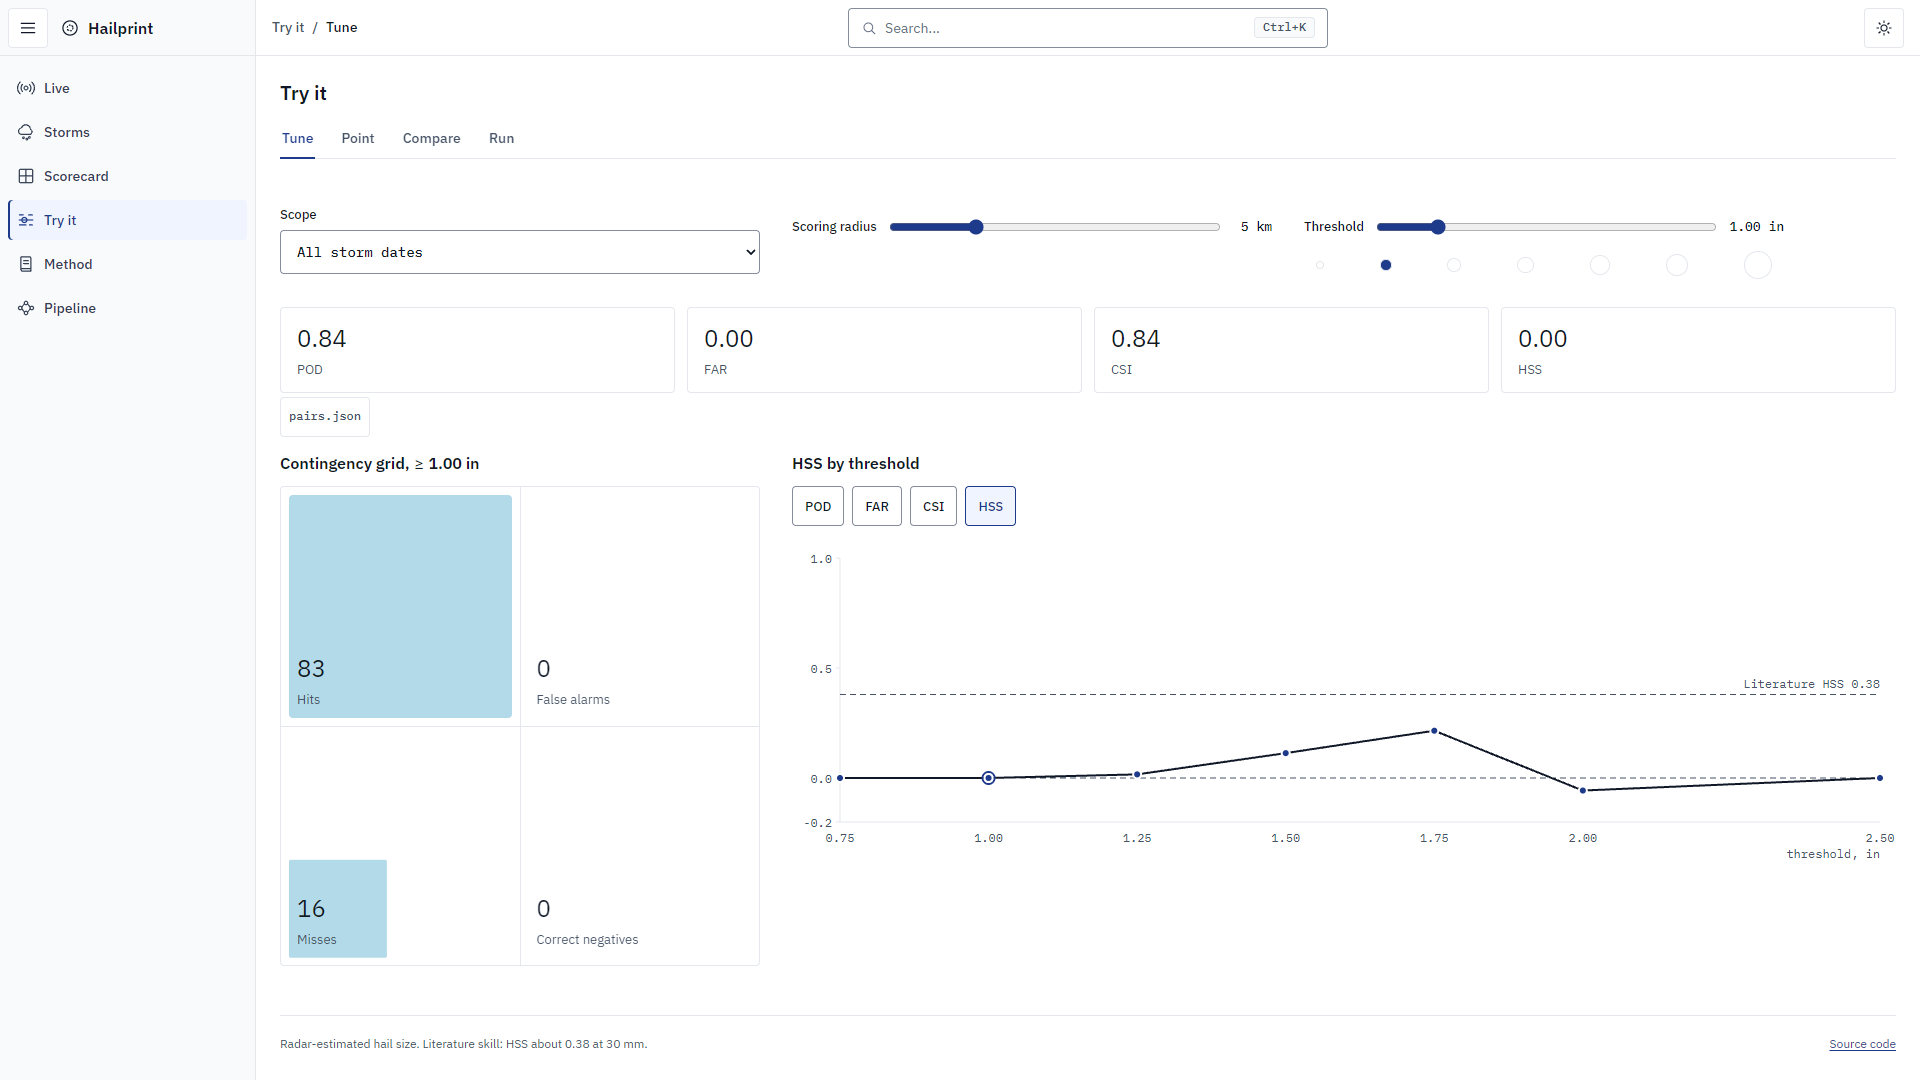
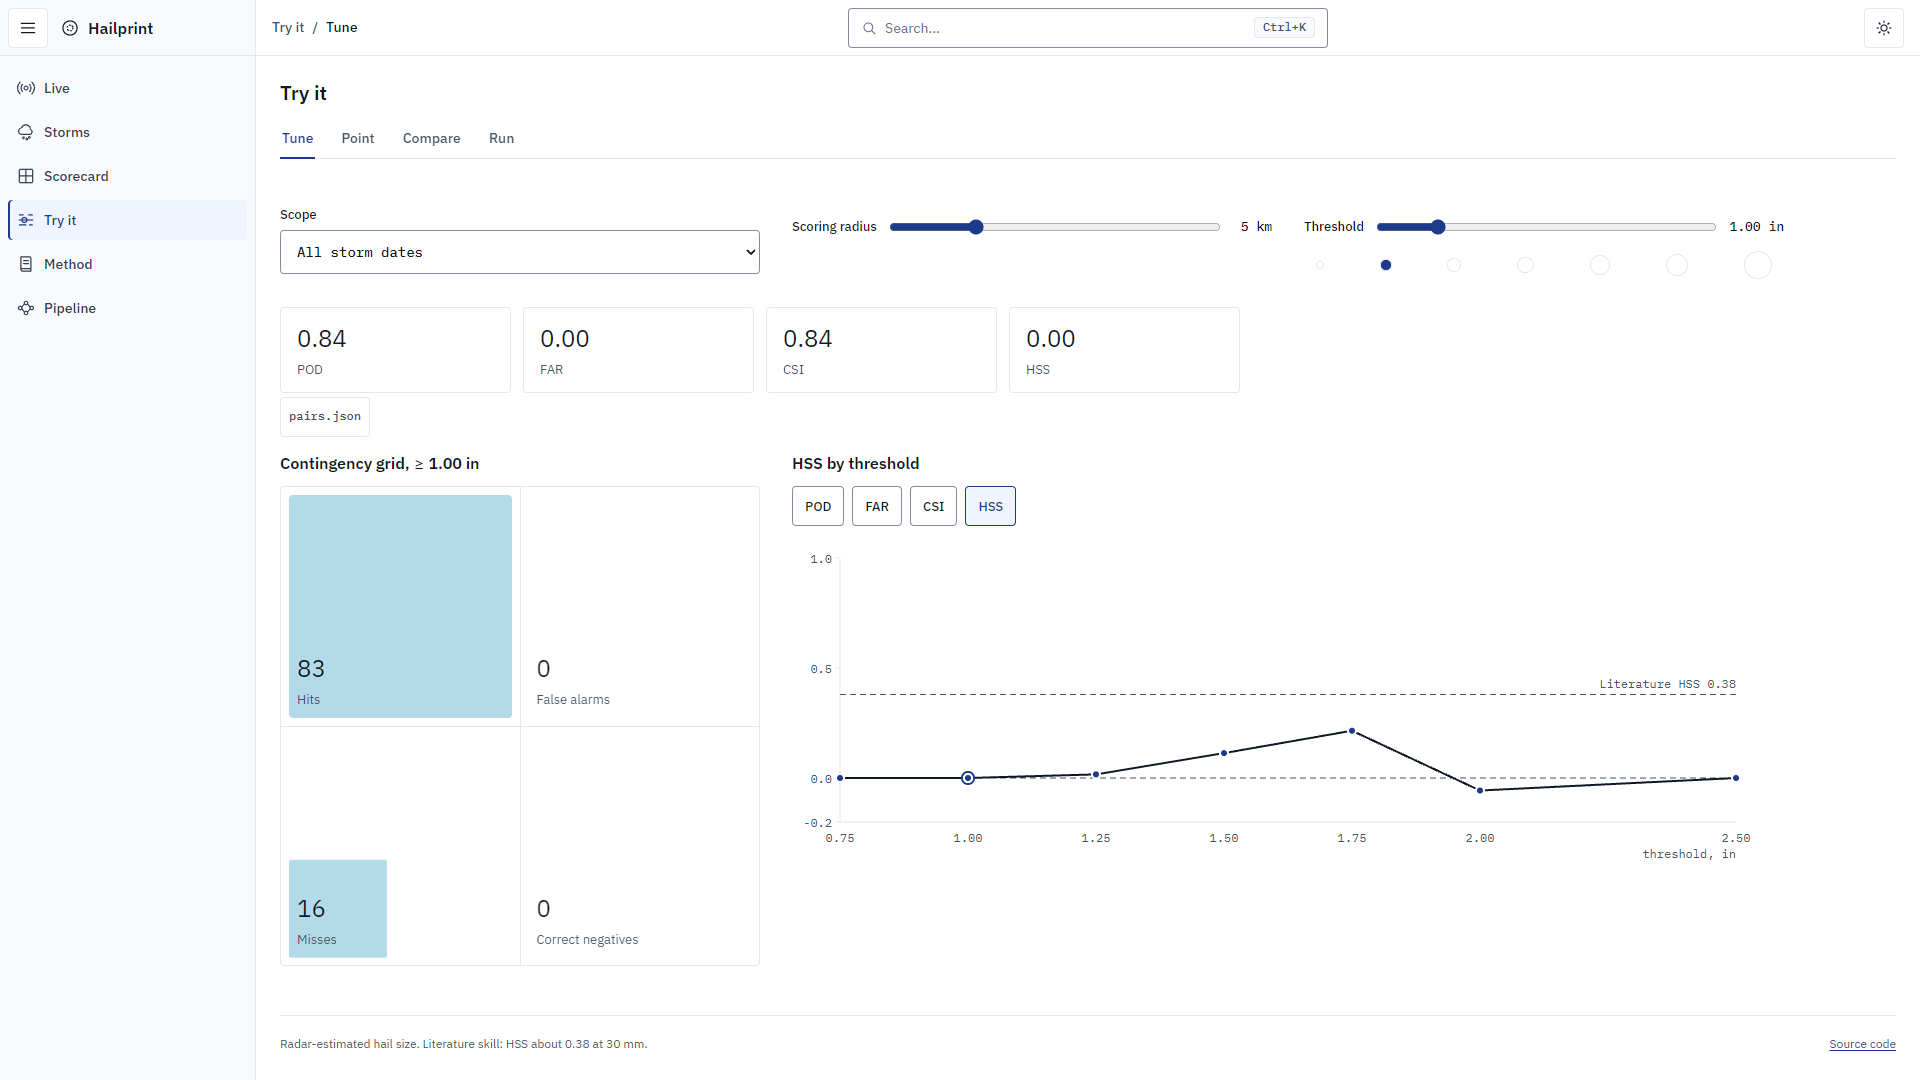
fix(site): curve group role, 960 px caps, table gap evidence (#55)
* fix(site): curve group role, 960 px caps, table gap test

- The threshold-curve svg uses role="group", so screen readers read the labelled marker hit circles.
- The curve and the tune metric row have a 960 px max-width. At 1920 px the curve no longer stretches to 1616 px.
- A test checks that the scorecard table keeps width: auto.

* docs(design): curve cap, curve role, and table gap evidence

* test(site): match the curve aria-label text, not its length

String(undefined) has length 9, so the old check passed on a missing label.

* docs(design): point the capture receipt at the test fix

---------

diff --git a/site/src/scorecard/scorecard.test.tsx b/site/src/scorecard/scorecard.test.tsx
@@ -458,5 +458,37 @@ describe("Scorecard empty cohort and ThresholdCurve roving Tab stop (US-12.1, US
     expect(Number(twoColumn![1])).toBeGreaterThanOrEqual(1280);
     expect(tryCss).toMatch(/@media\s*\(width\s*>=\s*1024px\)\s*\{\s*\.pane-grid\.tune-grid\s*\{\s*grid-template-columns:\s*minmax\(0,\s*1fr\);/);
   });
+
+  it("exposes the threshold curve as a group with a label, and each marker hit circle with its own label (F1)", async () => {
+    const host = makeFakeElement("div");
+    await act(() =>
+      render(h(ThresholdCurve, { rows: makeRows(), metric: "hss", onMetric: () => {} }), host as unknown as HTMLElement),
+    );
+
+    const svg = findDomNodes(host, (n) => n.tagName === "SVG")[0]!;
+    expect(svg["role"]).toBe("group");
+    expect(svg["aria-label"]).toMatch(/ by threshold$/);
+    const hitCircles = findDomNodes(host, (n) => n.tagName === "CIRCLE" && classOf(n) === "marker-hit");
+    expect(hitCircles).toHaveLength(7);
+    for (const hit of hitCircles) {
+      expect(hit["aria-label"]).toMatch(/ in, HSS -?\d\.\d{2}$/);
+    }
+  });
+
+  it("caps the curve and the tune metric row at 960 px wide (F2)", () => {
+    const read = (rel: string) => readFileSync(fileURLToPath(new URL(rel, import.meta.url)), "utf8");
+    const ruleBody = (css: string, selector: string) => {
+      const escaped = selector.replace(/[.*+?^${}()|[\]\\]/g, "\\$&");
+      return new RegExp(`(?:^|\\n)${escaped}\\s*\\{([^}]*)\\}`).exec(css)?.[1] ?? "";
+    };
+    expect(ruleBody(read("../styles/scorecard.css"), ".curve")).toMatch(/max-width:\s*960px/);
+    expect(ruleBody(read("../styles/try.css"), ".metric-row")).toMatch(/max-width:\s*960px/);
+  });
+
+  it("keeps the scorecard table at width auto so labels sit near their numbers (F3)", () => {
+    const scorecardCss = readFileSync(fileURLToPath(new URL("../styles/scorecard.css", import.meta.url)), "utf8");
+    const rule = /(?:^|\n)\.view-body > \.table-scroll > \.table\s*\{([^}]*)\}/.exec(scorecardCss)?.[1] ?? "";
+    expect(rule).toMatch(/width:\s*auto/);
+  });
 });
 

diff --git a/site/src/scorecard/threshold-curve.tsx b/site/src/scorecard/threshold-curve.tsx
@@ -114,7 +114,7 @@ export function ThresholdCurve({
         ref={svgRef}
         class="curve"
         viewBox={`0 0 ${width} ${HEIGHT}`}
-        role="img"
+        role="group"
         aria-label={`${METRIC_LABELS[metric]} by threshold`}
         onKeyDown={onKeyDown}
       >

diff --git a/site/src/styles/try.css b/site/src/styles/try.css
@@ -50,6 +50,7 @@
 
 .metric-row {
   display: grid;
+  max-width: 960px;
   grid-template-columns: repeat(4, minmax(0, 1fr));
   gap: 12px;
   margin-bottom: 8px;

diff --git a/site/src/styles/scorecard.css b/site/src/styles/scorecard.css
@@ -83,6 +83,7 @@
 .curve {
   display: block;
   width: 100%;
+  max-width: 960px;
   height: auto;
   overflow: visible;
 }

diff --git a/docs/design/ui-evidence.md b/docs/design/ui-evidence.md
@@ -1,4 +1,4 @@
-head: 510ef114115467de4013d4956e107ee9970b291d
+head: 58456a50b0f19eb2f18dccc6b4c76053c5e12dbe
 
 # UI evidence
 
@@ -57,6 +57,9 @@ Line 1 names the commit that the captures show.
 | Stale age copy | ages of 60 min and more in hours, 24 h and more in days | the badge reads "stale 21 d ago" |
 | Focus ring | 2 px solid primary outline, 2 px offset | `a` on `/scorecard/table`: 2px solid, offset 2px, rgb(30, 58, 138) |
 | Tune curve targets | each marker centre on `/try/tune` hits its own marker (`elementFromPoint`) at 1024, 1100, 1279, 1280, 1440, and 1920 px | 7 of 7 markers at all 6 widths; the panes stack below 1280 px (`batch-b/try-tune-1024.png`) |
+| Curve width cap | `.curve` and `.metric-row` stop at 960 px | at 1920 px: `/scorecard/curve` curve 960 px, `/try/tune` curve 960 px and metric row 960 px; at 1280 px: 960 px and 464 px |
+| Curve accessibility | the curve `<svg>` is `role="group"` with an aria-label, so the labelled marker hit circles are not presentational | `role="group"`; 7 labelled hit circles |
+| Table label gap | on `/scorecard/table`, the gap from the widest label text to the nearest first-column number text is 48 px or less (US-07.2) | 24 px at 1280 and 1920 px over 7 rows; the table is 384 px wide (`width: auto`) |
 | Impeccable detector | exit 0 on `site/src` | exit 0 |
 
 Computed fonts at 1280x800 (`getComputedStyle`, first family):
